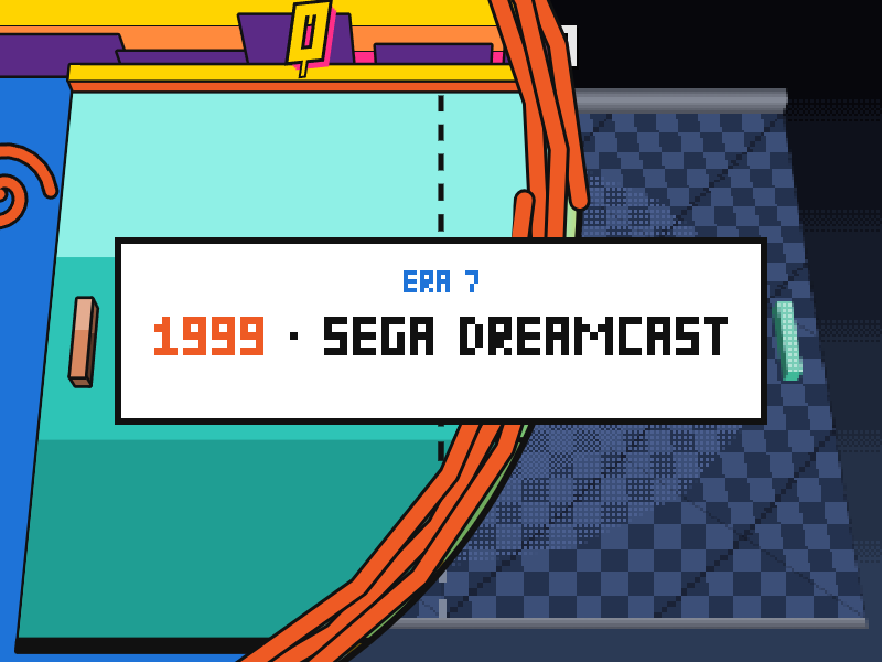
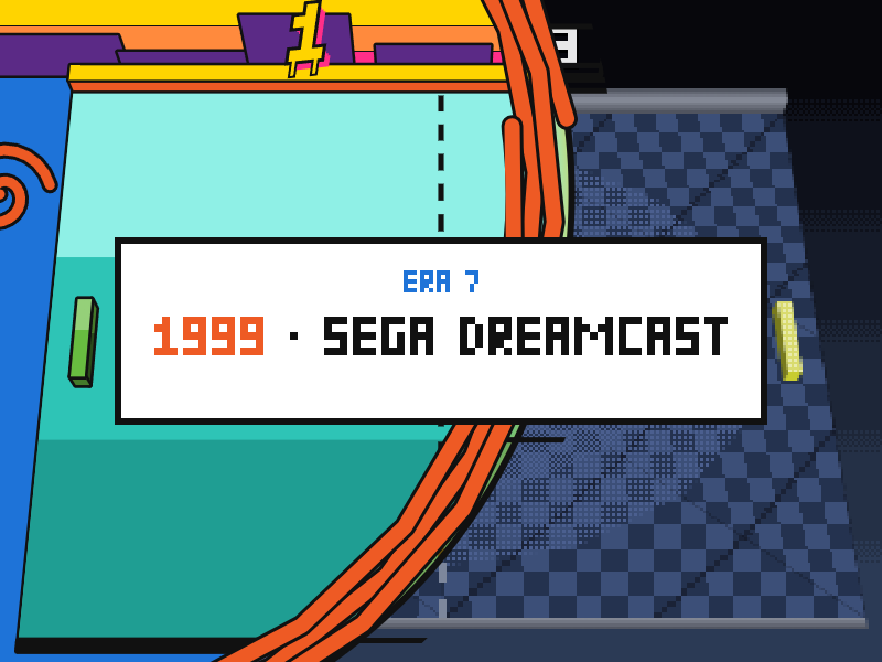
item 1153: the ink line leads the ring by up to 40 px so each shape is inked before its colour arrives; re-filmed (3 PNGs, dreamcast-shots.json: ring mean 4.17 ms against 4.17 ms before, 0.30 s of pause left, paddle followed, 0 page errors); era 7 arrival test 9/9

diff --git a/src/eras/era7-dreamcast.js b/src/eras/era7-dreamcast.js
@@ -428,7 +428,7 @@
   var ARRIVAL = {
     ignite: 0.25, snap: 0.8, fade: 0.9,
     page: 0.9, dot: 14, bounce: 40,
-    inkWidth: 5, inkBand: 28, edgeInk: 6,
+    inkWidth: 5, inkLead: 40, inkTrail: 12, edgeInk: 6,
     band: { inner: 40, outer: 28, alpha: 0.35 },
     swirl: { arms: 3, points: 24, width: 14, ink: 20, depth: 50, inside: 60, outside: 10 },
     spiral: { size: 46, turns: 1.6, points: 40, width: 9, ink: 15, spin: 5 * Math.PI },
@@ -568,11 +568,13 @@
       ctx.fill();
     }
 
-    // The ink line, from the first frame: it traces every shape the ring's edge crosses.
+    // The ink line, from the first frame: it runs just AHEAD of the ring and
+    // traces every shape it crosses, so each shape is inked before its colour
+    // arrives -- 40 pixels ahead at most, inside the 60-pixel limit.
     if (radius > 0 && p < 1) {
       if (cam && state) {
         ctx.save();
-        annulus(ctx, o, radius + 2, radius - ARRIVAL.inkBand);
+        annulus(ctx, o, radius + ARRIVAL.inkLead, radius - ARRIVAL.inkTrail);
         ctx.clip();
         inkShapes(ctx, T, cam, state);
         ctx.restore();
